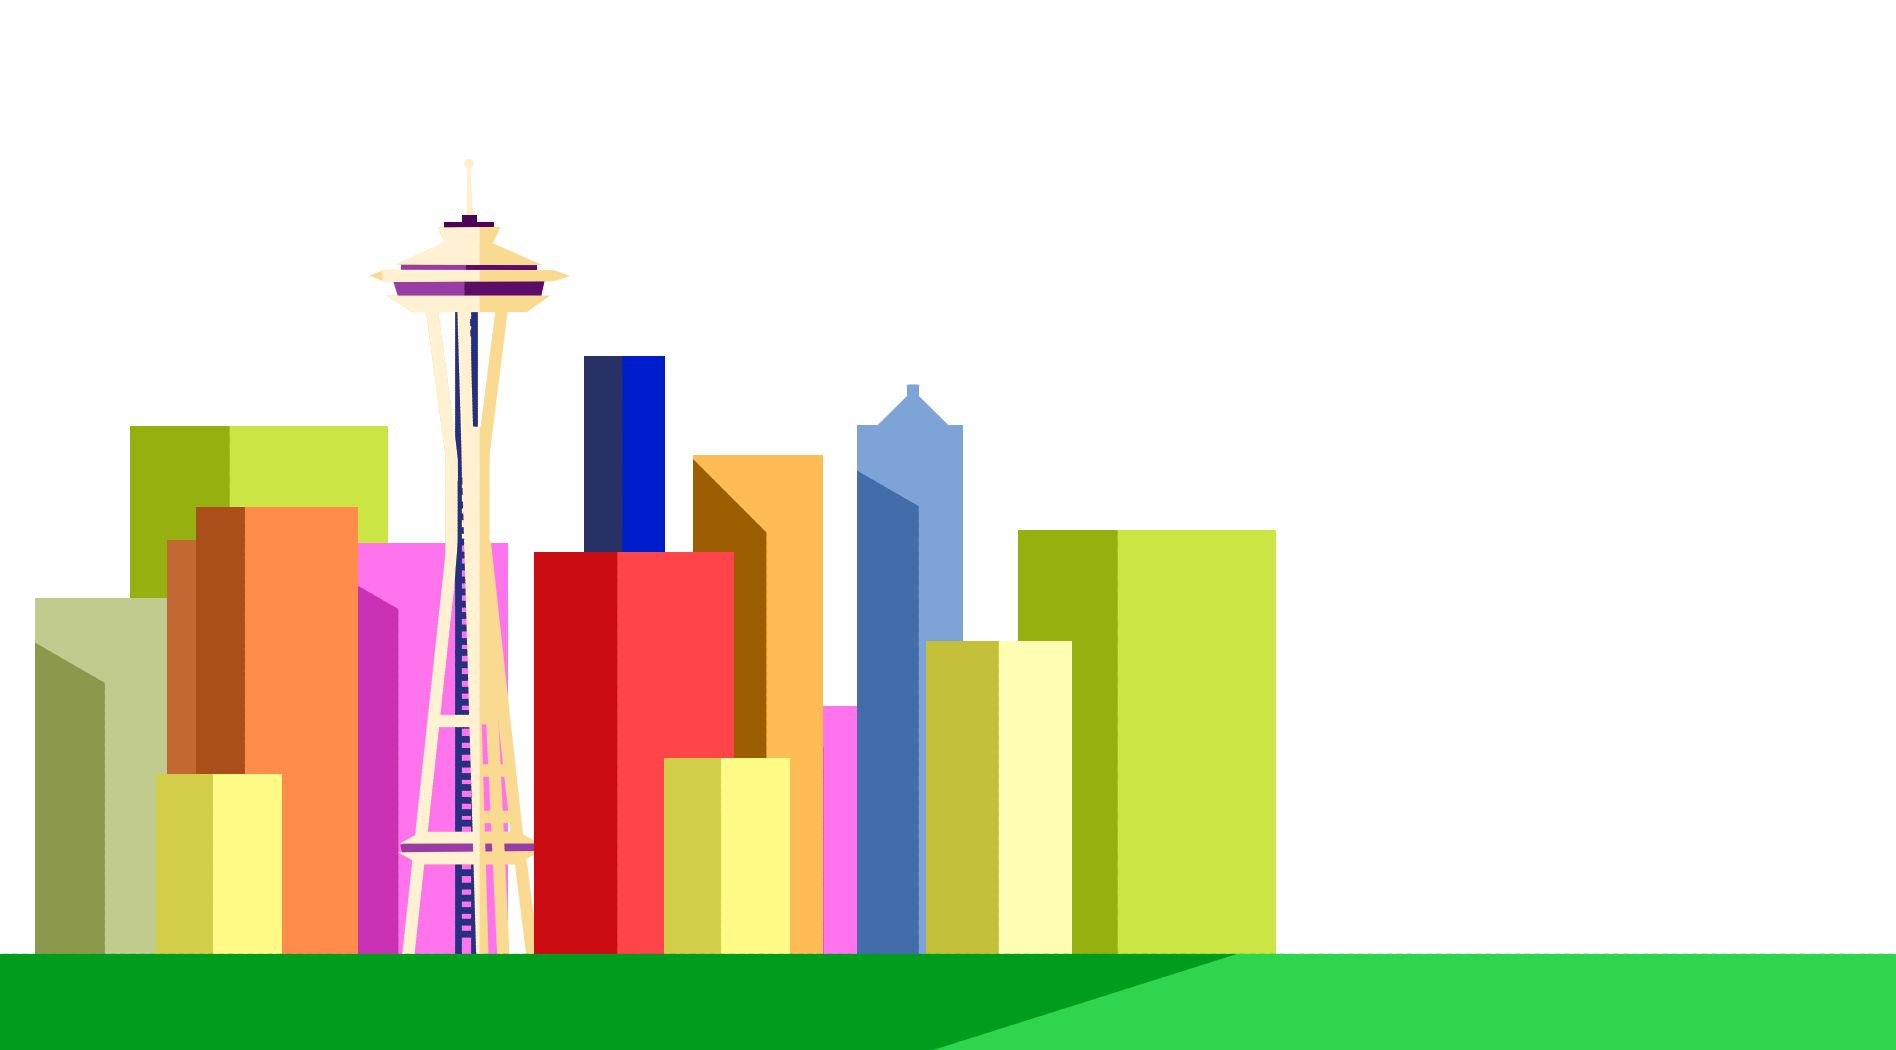
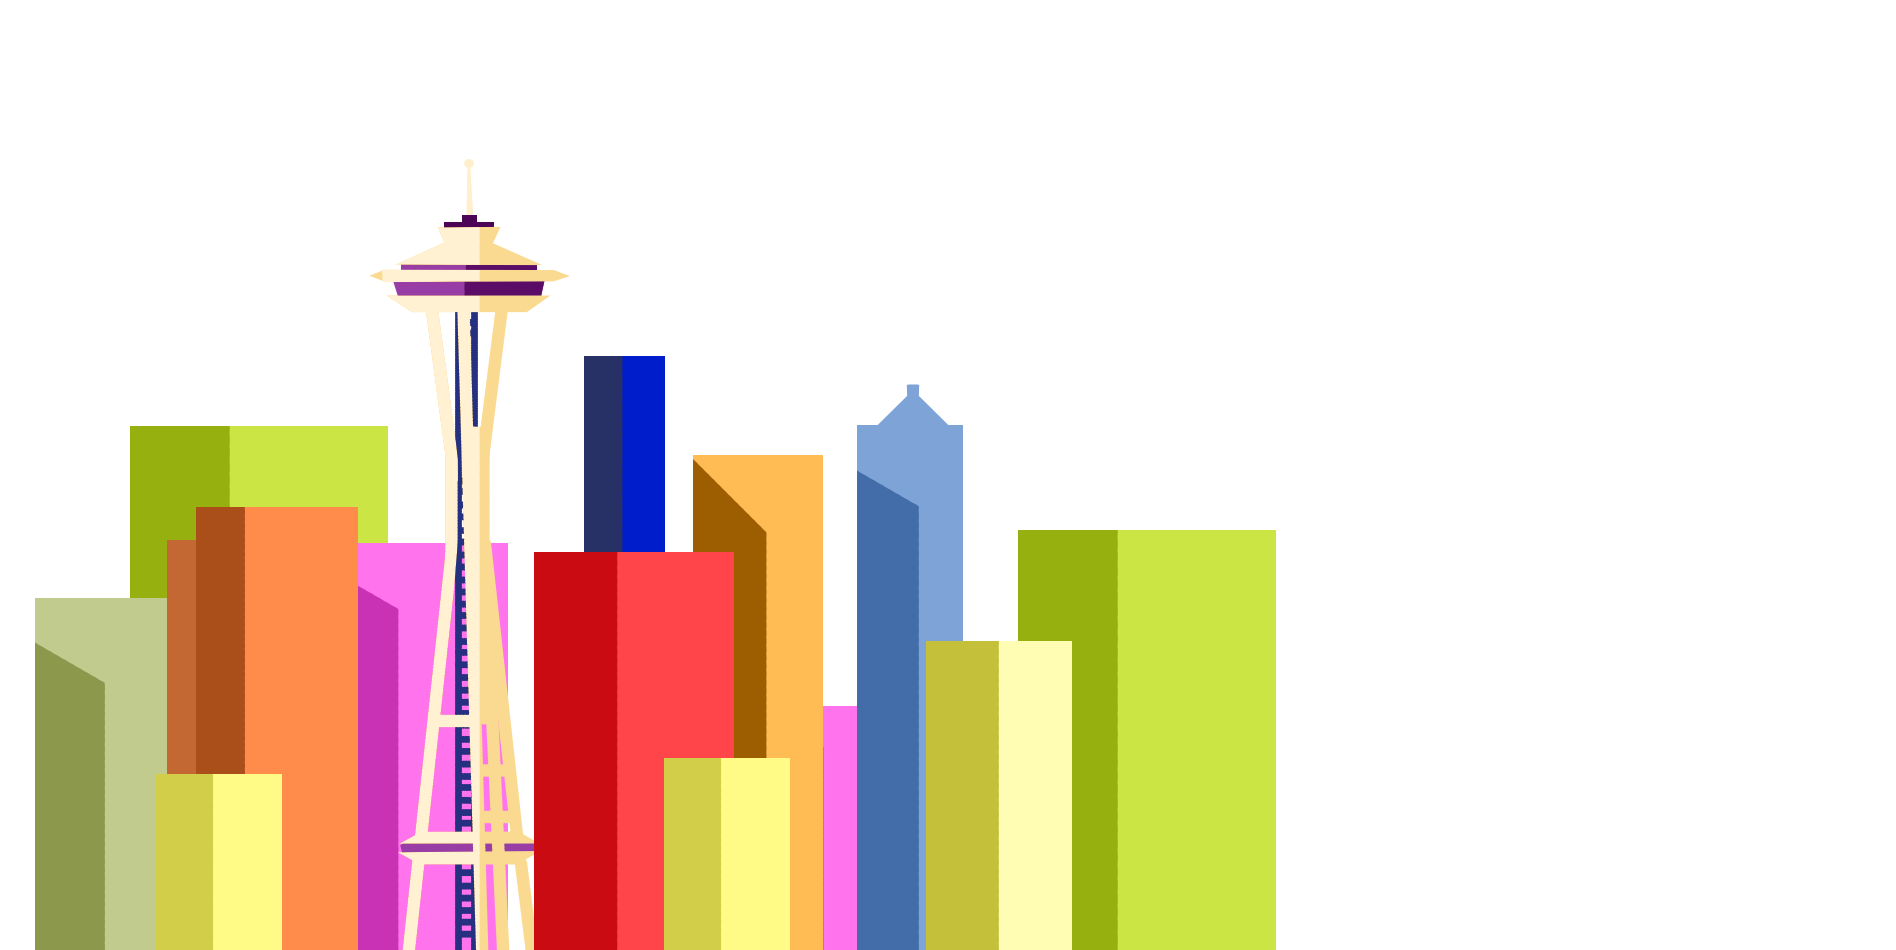
changing bcg image and overscan for iphone 11

diff --git a/home/home.css b/home/home.css
@@ -151,6 +151,42 @@ li a {
 /*  	z-index: 5;*/
 }
 
+@media (max-width: 731px) {
+    #image1 {
+/*    align-items: flex-end;
+    display: flex;*/
+	position: absolute; 
+
+	bottom:0; 
+	left: 0;
+    width: 100%; 
+    height: auto;
+    /*background-size: 100% 200%;*/
+/*	background-size: cover;*/
+  	animation-duration: 3s;
+  	animation-name: slidein;
+  	overflow: hidden;
+/*  	z-index: 5;*/
+	}
+	/* CLOUDS */
+	#clouds {
+		position: absolute; top:0; left: 0;
+	    width: 100%; 
+	    height: auto;
+/*	    background-size: 100% 200%;*/
+/*		background-size: cover;*/
+/*	  animation-duration: 10s;
+	  animation-name: cloud_slide;
+	  animation-iteration-count: infinite;*/
+/*	  animation-direction: alternate;*/
+		animation-timing-function: linear;
+	  opacity: 0.8;
+
+
+	}
+}
+
+
 /* city image slide in from left */
 @keyframes slidein {
   from {
@@ -170,14 +206,15 @@ li a {
     width: 100%; height: 100%;
     background-size: 100% 200%;
 	background-size: cover;
-  animation-duration: 10s;
+	animation-timing-function: linear;
+/*  animation-duration: 10s;
   animation-name: cloud_slide;
-  animation-iteration-count: infinite;
+  animation-iteration-count: infinite;*/
 /*  animation-direction: alternate;*/
   opacity: 0.8;
 }
 
-@keyframes cloud_slide {
+/*@keyframes cloud_slide {
   from {
     margin-left: 100%;
     width: 300%; 
@@ -188,7 +225,7 @@ li a {
     width: 100%;
   }
 }
-
+*/
 #panel2 {
 	z-index: 3;
 }
@@ -196,21 +233,63 @@ li a {
 /**********************LETTER ANIMATION ********************/
 .welcome {
 	text-align: right;
-  position: relative;
+  	position: relative;
 /*  font-weight: 900;*/
-padding-right: 100px;
-  font-size: 8em;
-  font-family: Bungee Shade;
+  	padding-right: 100px;
+  	font-size: 8em;
+  	font-family: Bungee Shade;
+}
+
+@media (max-width: 320px) {
+	.welcome {
+/*		text-align: center;*/
+  		position: relative;
+/*  font-weight: 900;*/
+		padding-top: 3em;
+		padding-right: 10px;
+	  	font-size: 3em;
+	  	font-family: Bungee Shade;
+	}
+	.welcome .text-wrapper {
+	  	position: relative;
+	  	display: inline-block;
+	  	padding-top: 0.5em;
+	  	padding-right: 0.05em;
+	  	padding-bottom: 0.1em;
+	  	overflow: hidden;
+	}
+}
+
+
+@media (max-width: 680px) {
+	.welcome {
+/*		text-align: center;*/
+  		position: relative;
+/*  font-weight: 900;*/
+		padding-top: 1em;
+		padding-right: 40px;
+	  	font-size: 3em;
+	  	font-family: Bungee Shade;
+	}
+	.welcome .text-wrapper {
+	  	position: relative;
+	  	display: inline-block;
+/*	  	padding-top: 0.5em;*/
+	  	padding-right: 0.05em;
+	  	padding-bottom: 0.1em;
+	  	overflow: hidden;
+	}
 }
 
 .welcome .text-wrapper {
-  position: relative;
-  display: inline-block;
-  padding-top: 0.2em;
-  padding-right: 0.05em;
-  padding-bottom: 0.1em;
-  overflow: hidden;
+  	position: relative;
+  	display: inline-block;
+  	padding-top: 0.1em;
+  	padding-right: 0.05em;
+  	padding-bottom: 0.1em;
+  	overflow: hidden;
 }
+
 
 .welcome .letter {
   display: inline-block;
@@ -476,4 +555,3 @@ footer::before {
   
   content: '';*/
 }
-

diff --git a/home/home.html b/home/home.html
@@ -2,7 +2,8 @@
  <html lang="en">
  <head>
     <meta charset="utf-8">
-    <meta name="viewport" content="width=device-width, initial-scale=1">
+<!--     <meta name="viewport" content="width=device-width, initial-scale=1"> -->
+<meta name='viewport' content='initial-scale=1, viewport-fit=cover'>
     <link rel="stylesheet" href="https://www.w3schools.com/w3css/4/w3.css">
 
     <!-- CSS only -->
@@ -24,7 +25,7 @@
     <!-- jquery -->
      <script type="text/JavaScript" src="http://ajax.googleapis.com/ajax/libs/jquery/1.9.1/jquery.min.js"></script>
     <!-- FOR GOOGLE FONTS -->
-    <script src='https://kit.fontawesome.com/a076d05399.js'></script>
+<!--     <script src='https://kit.fontawesome.com/a076d05399.js'></script> -->
     <!-- FOR GOOGLE ICONS -->
     <link href="https://fonts.googleapis.com/icon?family=Material+Icons" rel="stylesheet"> 
     <!-- FOR GOOGLE FONTS -->
@@ -59,10 +60,11 @@
 <!----------------------------------------------------------------------------------------------------------------------->
         <div class="panel" id="panel1">
             <div id="image1" style="">
-                <img src="city1.png" style="">
+                <img src="city1.png" style="height: 100%; width: auto;">
             </div>
-            <div id="clouds">
-                <img src="clouds.png">
+                            <!-- <div class="animation" id="div1"> -->
+            <div class="animation" id="clouds">
+                <img src="clouds.png" style="height: 100%; width: auto;">
             </div>
             <div class="inner">
                     <h1 class="welcome">
@@ -824,11 +826,11 @@
     <div class="after_about">
 
     <a href="mailto:ealasagas@email.com"><i class="fa fa-envelope-square" id="icons"></i></a>
-    <a href="https://www.linkedin.com/in/elaine-alasagas-56a81759/"><i class="fab fa-linkedin" id="icons"></i></a>
+    <a href="https://www.linkedin.com/in/elaine-alasagas-56a81759/"><i class="fa fa-linkedin-square" id="icons"></i></a>
     <a href="https://www.facebook.com/elaine.alasagas"><i class="fa fa-facebook-square" id="icons"></i></a>
     <a href="https://www.instagram.com/myshveetarse/"><i class="fa fa-instagram" id="icons"></i></a>
     <a href="https://twitter.com/Shveeeet/"><i class="fa fa-twitter-square" id="icons"></i></a>
-    <a href="https://bitbucket.org/Schveet_arse/"><i class="fab fa-bitbucket" id="icons"></i></a>
+<!--     <a href="https://bitbucket.org/Schveet_arse/"><i class="fab fa-bitbucket" id="icons"></i></a> -->
     <a href="https://github.com/ewalasagas/"><i class="fa fa-github-square" id="icons"></i></a>
     <p>designed and developed by elaine alasagas</p>
 
